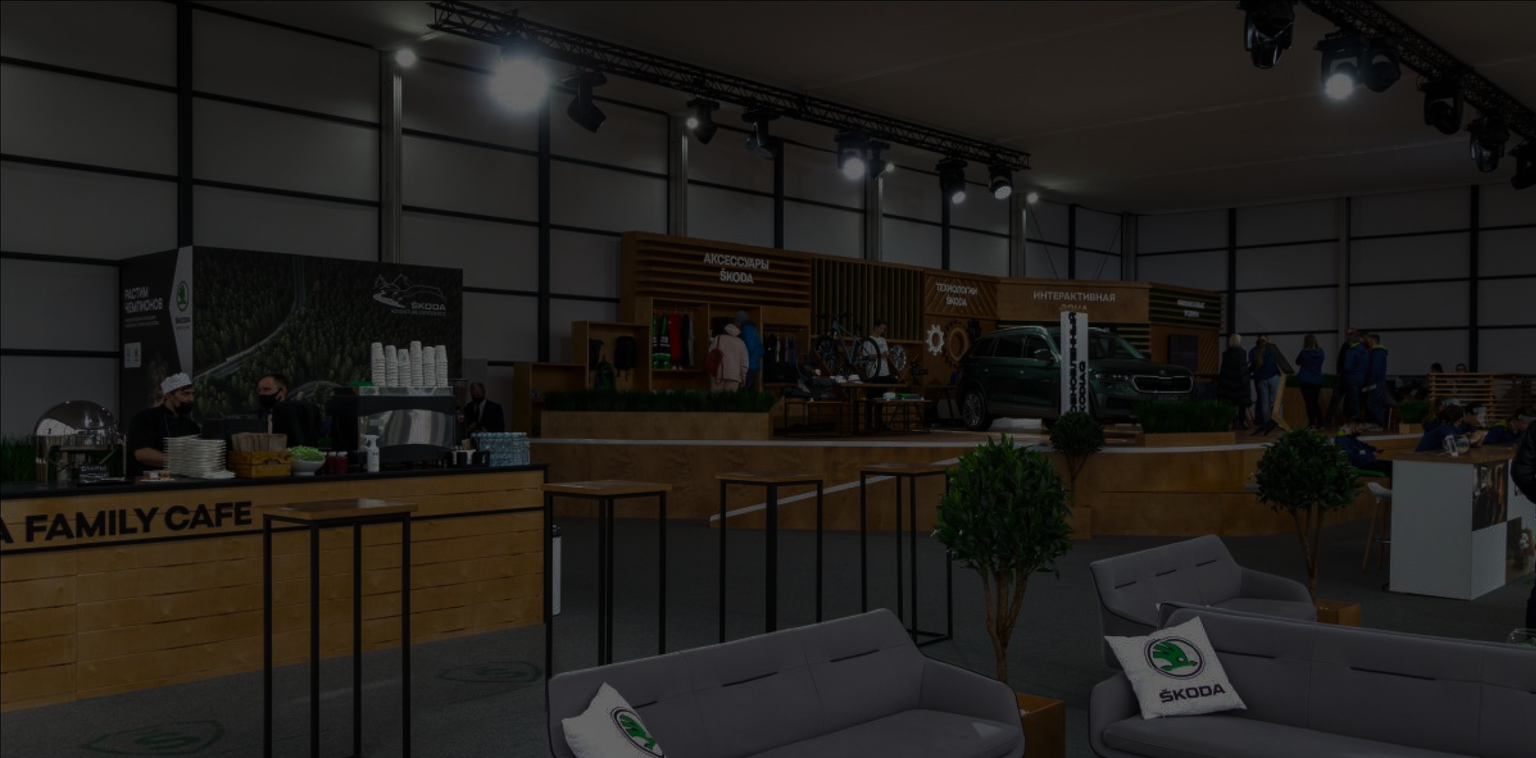
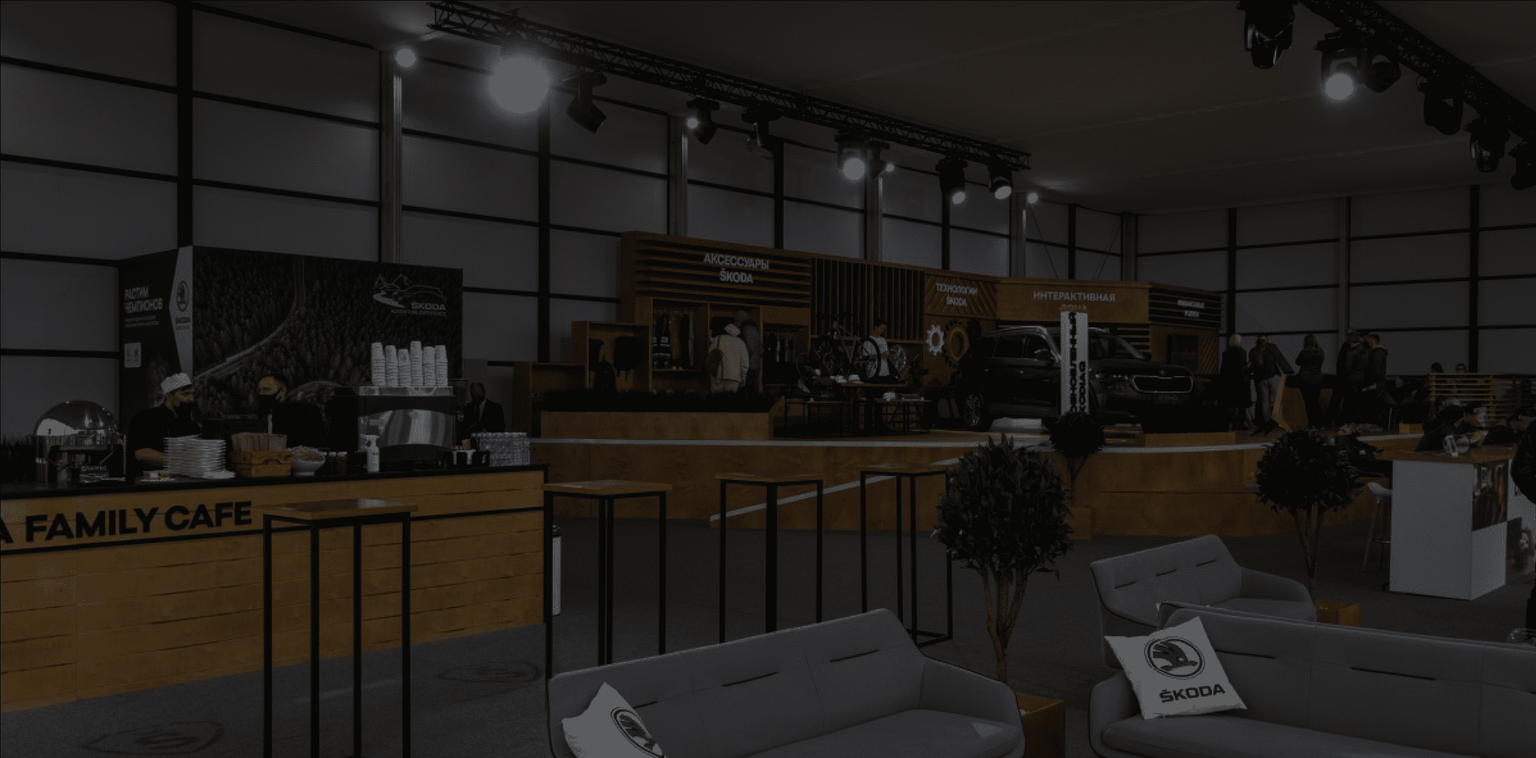
new hero bg

Changed region(s): [[0.4375, 0.432, 0.5, 0.4937], [0.75, 0.8331, 0.7812, 0.8948]]

diff --git a/addition.html b/addition.html
@@ -6,22 +6,22 @@
  <meta name="viewport" content="width=device-width, initial-scale=1.0">
  <link rel="preconnect" href="https://fonts.googleapis.com">
  <link rel="preconnect" href="https://fonts.gstatic.com" crossorigin>
- <link href="https://fonts.googleapis.com/css2?family=Raleway:wght@400;500;600;700&display=swap&_v=20230320100717" rel="stylesheet">
+ <link href="https://fonts.googleapis.com/css2?family=Raleway:wght@400;500;600;700&display=swap&_v=20230320102137" rel="stylesheet">
  <link rel="preconnect" href="https://fonts.googleapis.com">
  <link rel="preconnect" href="https://fonts.gstatic.com" crossorigin>
- <link href="https://fonts.googleapis.com/css2?family=Play:wght@400;700&display=swap&_v=20230320100717" rel="stylesheet">
+ <link href="https://fonts.googleapis.com/css2?family=Play:wght@400;700&display=swap&_v=20230320102137" rel="stylesheet">
  <link rel="preconnect" href="https://fonts.googleapis.com">
  <link rel="preconnect" href="https://fonts.gstatic.com" crossorigin>
- <link href="https://fonts.googleapis.com/css2?family=Montserrat:wght@500;600&display=swap&_v=20230320100717" rel="stylesheet">
+ <link href="https://fonts.googleapis.com/css2?family=Montserrat:wght@500;600&display=swap&_v=20230320102137" rel="stylesheet">
  <link rel="preconnect" href="https://fonts.googleapis.com">
  <link rel="preconnect" href="https://fonts.gstatic.com" crossorigin>
- <link href="https://fonts.googleapis.com/css2?family=Work+Sans:wght@700&display=swap&_v=20230320100717" rel="stylesheet">
+ <link href="https://fonts.googleapis.com/css2?family=Work+Sans:wght@700&display=swap&_v=20230320102137" rel="stylesheet">
  <link rel="preload" as="image" href="./img/main/hero.png" />
- <link rel="stylesheet" href="https://cdn.jsdelivr.net/npm/swiper@9/swiper-bundle.min.css?_v=20230320100717" />
- <script src="https://cdn.jsdelivr.net/npm/swiper@9/swiper-bundle.min.js?_v=20230320100717"></script>
- <script src="js/jQuery2.2.0.js?_v=20230320100717"></script>
- <script src="js/ScrollAnimations.js?_v=20230320100717"></script>
- <link rel="stylesheet" href="css/style.min.css?_v=20230320100717">
+ <link rel="stylesheet" href="https://cdn.jsdelivr.net/npm/swiper@9/swiper-bundle.min.css?_v=20230320102137" />
+ <script src="https://cdn.jsdelivr.net/npm/swiper@9/swiper-bundle.min.js?_v=20230320102137"></script>
+ <script src="js/jQuery2.2.0.js?_v=20230320102137"></script>
+ <script src="js/ScrollAnimations.js?_v=20230320102137"></script>
+ <link rel="stylesheet" href="css/style.min.css?_v=20230320102137">
  <title>Дополнительные возможности</title>
 </head>
 
@@ -418,8 +418,8 @@
  </div>
 </footer>
 </body>
-<script src="./js/menu.js?_v=20230320100717"></script>
-<script src="./js/slider.js?_v=20230320100717"></script>
-<script src="./js/animation.js?_v=20230320100717"></script>
+<script src="./js/menu.js?_v=20230320102137"></script>
+<script src="./js/slider.js?_v=20230320102137"></script>
+<script src="./js/animation.js?_v=20230320102137"></script>
 
 </html>

diff --git a/solutions.html b/solutions.html
@@ -6,22 +6,22 @@
  <meta name="viewport" content="width=device-width, initial-scale=1.0">
  <link rel="preconnect" href="https://fonts.googleapis.com">
  <link rel="preconnect" href="https://fonts.gstatic.com" crossorigin>
- <link href="https://fonts.googleapis.com/css2?family=Raleway:wght@400;500;600;700&display=swap&_v=20230320100717" rel="stylesheet">
+ <link href="https://fonts.googleapis.com/css2?family=Raleway:wght@400;500;600;700&display=swap&_v=20230320102137" rel="stylesheet">
  <link rel="preconnect" href="https://fonts.googleapis.com">
  <link rel="preconnect" href="https://fonts.gstatic.com" crossorigin>
- <link href="https://fonts.googleapis.com/css2?family=Play:wght@400;700&display=swap&_v=20230320100717" rel="stylesheet">
+ <link href="https://fonts.googleapis.com/css2?family=Play:wght@400;700&display=swap&_v=20230320102137" rel="stylesheet">
  <link rel="preconnect" href="https://fonts.googleapis.com">
  <link rel="preconnect" href="https://fonts.gstatic.com" crossorigin>
- <link href="https://fonts.googleapis.com/css2?family=Montserrat:wght@500;600&display=swap&_v=20230320100717" rel="stylesheet">
+ <link href="https://fonts.googleapis.com/css2?family=Montserrat:wght@500;600&display=swap&_v=20230320102137" rel="stylesheet">
  <link rel="preconnect" href="https://fonts.googleapis.com">
  <link rel="preconnect" href="https://fonts.gstatic.com" crossorigin>
- <link href="https://fonts.googleapis.com/css2?family=Work+Sans:wght@700&display=swap&_v=20230320100717" rel="stylesheet">
+ <link href="https://fonts.googleapis.com/css2?family=Work+Sans:wght@700&display=swap&_v=20230320102137" rel="stylesheet">
  <link rel="preload" as="image" href="./img/main/hero.png" />
- <link rel="stylesheet" href="https://cdn.jsdelivr.net/npm/swiper@9/swiper-bundle.min.css?_v=20230320100717" />
- <script src="https://cdn.jsdelivr.net/npm/swiper@9/swiper-bundle.min.js?_v=20230320100717"></script>
- <script src="js/jQuery2.2.0.js?_v=20230320100717"></script>
- <script src="js/ScrollAnimations.js?_v=20230320100717"></script>
- <link rel="stylesheet" href="css/style.min.css?_v=20230320100717">
+ <link rel="stylesheet" href="https://cdn.jsdelivr.net/npm/swiper@9/swiper-bundle.min.css?_v=20230320102137" />
+ <script src="https://cdn.jsdelivr.net/npm/swiper@9/swiper-bundle.min.js?_v=20230320102137"></script>
+ <script src="js/jQuery2.2.0.js?_v=20230320102137"></script>
+ <script src="js/ScrollAnimations.js?_v=20230320102137"></script>
+ <link rel="stylesheet" href="css/style.min.css?_v=20230320102137">
  <title>Решения</title>
 </head>
 
@@ -375,8 +375,8 @@
  </div>
 </footer>
 </body>
-<script src="./js/slider.js?_v=20230320100717"></script>
-<script src="./js/menu.js?_v=20230320100717"></script>
-<script src="./js/animation.js?_v=20230320100717"></script>
+<script src="./js/slider.js?_v=20230320102137"></script>
+<script src="./js/menu.js?_v=20230320102137"></script>
+<script src="./js/animation.js?_v=20230320102137"></script>
 
 </html>

diff --git a/index.html b/index.html
@@ -6,22 +6,22 @@
  <meta name="viewport" content="width=device-width, initial-scale=1.0">
  <link rel="preconnect" href="https://fonts.googleapis.com">
  <link rel="preconnect" href="https://fonts.gstatic.com" crossorigin>
- <link href="https://fonts.googleapis.com/css2?family=Raleway:wght@400;500;600;700&display=swap&_v=20230320100717" rel="stylesheet">
+ <link href="https://fonts.googleapis.com/css2?family=Raleway:wght@400;500;600;700&display=swap&_v=20230320102137" rel="stylesheet">
  <link rel="preconnect" href="https://fonts.googleapis.com">
  <link rel="preconnect" href="https://fonts.gstatic.com" crossorigin>
- <link href="https://fonts.googleapis.com/css2?family=Play:wght@400;700&display=swap&_v=20230320100717" rel="stylesheet">
+ <link href="https://fonts.googleapis.com/css2?family=Play:wght@400;700&display=swap&_v=20230320102137" rel="stylesheet">
  <link rel="preconnect" href="https://fonts.googleapis.com">
  <link rel="preconnect" href="https://fonts.gstatic.com" crossorigin>
- <link href="https://fonts.googleapis.com/css2?family=Montserrat:wght@500;600&display=swap&_v=20230320100717" rel="stylesheet">
+ <link href="https://fonts.googleapis.com/css2?family=Montserrat:wght@500;600&display=swap&_v=20230320102137" rel="stylesheet">
  <link rel="preconnect" href="https://fonts.googleapis.com">
  <link rel="preconnect" href="https://fonts.gstatic.com" crossorigin>
- <link href="https://fonts.googleapis.com/css2?family=Work+Sans:wght@700&display=swap&_v=20230320100717" rel="stylesheet">
+ <link href="https://fonts.googleapis.com/css2?family=Work+Sans:wght@700&display=swap&_v=20230320102137" rel="stylesheet">
  <link rel="preload" as="image" href="./img/main/hero.png" />
- <link rel="stylesheet" href="https://cdn.jsdelivr.net/npm/swiper@9/swiper-bundle.min.css?_v=20230320100717" />
- <script src="https://cdn.jsdelivr.net/npm/swiper@9/swiper-bundle.min.js?_v=20230320100717"></script>
- <script src="js/jQuery2.2.0.js?_v=20230320100717"></script>
- <script src="js/ScrollAnimations.js?_v=20230320100717"></script>
- <link rel="stylesheet" href="css/style.min.css?_v=20230320100717">
+ <link rel="stylesheet" href="https://cdn.jsdelivr.net/npm/swiper@9/swiper-bundle.min.css?_v=20230320102137" />
+ <script src="https://cdn.jsdelivr.net/npm/swiper@9/swiper-bundle.min.js?_v=20230320102137"></script>
+ <script src="js/jQuery2.2.0.js?_v=20230320102137"></script>
+ <script src="js/ScrollAnimations.js?_v=20230320102137"></script>
+ <link rel="stylesheet" href="css/style.min.css?_v=20230320102137">
  <title>Главная</title>
 </head>
 
@@ -713,7 +713,7 @@
  </div>
 </footer>
 </body>
-<script src="./js/menu.js?_v=20230320100717"></script>
-<script src="./js/slider.js?_v=20230320100717"></script>
-<script src="./js/animation.js?_v=20230320100717"></script>
+<script src="./js/menu.js?_v=20230320102137"></script>
+<script src="./js/slider.js?_v=20230320102137"></script>
+<script src="./js/animation.js?_v=20230320102137"></script>
 </html>

diff --git a/designs-classic.html b/designs-classic.html
@@ -6,20 +6,20 @@
  <meta name="viewport" content="width=device-width, initial-scale=1.0">
  <link rel="preconnect" href="https://fonts.googleapis.com">
  <link rel="preconnect" href="https://fonts.gstatic.com" crossorigin>
- <link href="https://fonts.googleapis.com/css2?family=Raleway:wght@400;500;600;700&display=swap&_v=20230320100717" rel="stylesheet">
+ <link href="https://fonts.googleapis.com/css2?family=Raleway:wght@400;500;600;700&display=swap&_v=20230320102137" rel="stylesheet">
  <link rel="preconnect" href="https://fonts.googleapis.com">
  <link rel="preconnect" href="https://fonts.gstatic.com" crossorigin>
- <link href="https://fonts.googleapis.com/css2?family=Play:wght@400;700&display=swap&_v=20230320100717" rel="stylesheet">
+ <link href="https://fonts.googleapis.com/css2?family=Play:wght@400;700&display=swap&_v=20230320102137" rel="stylesheet">
  <link rel="preconnect" href="https://fonts.googleapis.com">
  <link rel="preconnect" href="https://fonts.gstatic.com" crossorigin>
- <link href="https://fonts.googleapis.com/css2?family=Montserrat:wght@500;600&display=swap&_v=20230320100717" rel="stylesheet">
+ <link href="https://fonts.googleapis.com/css2?family=Montserrat:wght@500;600&display=swap&_v=20230320102137" rel="stylesheet">
  <link rel="preconnect" href="https://fonts.googleapis.com">
  <link rel="preconnect" href="https://fonts.gstatic.com" crossorigin>
- <link href="https://fonts.googleapis.com/css2?family=Work+Sans:wght@700&display=swap&_v=20230320100717" rel="stylesheet">
- <script src="https://cdn.jsdelivr.net/npm/swiper@9/swiper-bundle.min.js?_v=20230320100717"></script>
- <script src="js/jQuery2.2.0.js?_v=20230320100717"></script>
- <script src="js/ScrollAnimations.js?_v=20230320100717"></script>
- <link rel="stylesheet" href="css/style.min.css?_v=20230320100717">
+ <link href="https://fonts.googleapis.com/css2?family=Work+Sans:wght@700&display=swap&_v=20230320102137" rel="stylesheet">
+ <script src="https://cdn.jsdelivr.net/npm/swiper@9/swiper-bundle.min.js?_v=20230320102137"></script>
+ <script src="js/jQuery2.2.0.js?_v=20230320102137"></script>
+ <script src="js/ScrollAnimations.js?_v=20230320102137"></script>
+ <link rel="stylesheet" href="css/style.min.css?_v=20230320102137">
  <title>Классические конструкции</title>
 </head>
 
@@ -324,8 +324,8 @@
  </div>
 </footer>
 </body>
-<script src="./js/slider.js?_v=20230320100717"></script>
-<script src="./js/menu.js?_v=20230320100717"></script>
-<script src="./js/animation.js?_v=20230320100717"></script>
+<script src="./js/slider.js?_v=20230320102137"></script>
+<script src="./js/menu.js?_v=20230320102137"></script>
+<script src="./js/animation.js?_v=20230320102137"></script>
 
 </html>

diff --git a/designs-premium.html b/designs-premium.html
@@ -6,20 +6,20 @@
  <meta name="viewport" content="width=device-width, initial-scale=1.0">
  <link rel="preconnect" href="https://fonts.googleapis.com">
  <link rel="preconnect" href="https://fonts.gstatic.com" crossorigin>
- <link href="https://fonts.googleapis.com/css2?family=Raleway:wght@400;500;600;700&display=swap&_v=20230320100717" rel="stylesheet">
+ <link href="https://fonts.googleapis.com/css2?family=Raleway:wght@400;500;600;700&display=swap&_v=20230320102137" rel="stylesheet">
  <link rel="preconnect" href="https://fonts.googleapis.com">
  <link rel="preconnect" href="https://fonts.gstatic.com" crossorigin>
- <link href="https://fonts.googleapis.com/css2?family=Play:wght@400;700&display=swap&_v=20230320100717" rel="stylesheet">
+ <link href="https://fonts.googleapis.com/css2?family=Play:wght@400;700&display=swap&_v=20230320102137" rel="stylesheet">
  <link rel="preconnect" href="https://fonts.googleapis.com">
  <link rel="preconnect" href="https://fonts.gstatic.com" crossorigin>
- <link href="https://fonts.googleapis.com/css2?family=Montserrat:wght@500;600&display=swap&_v=20230320100717" rel="stylesheet">
+ <link href="https://fonts.googleapis.com/css2?family=Montserrat:wght@500;600&display=swap&_v=20230320102137" rel="stylesheet">
  <link rel="preconnect" href="https://fonts.googleapis.com">
  <link rel="preconnect" href="https://fonts.gstatic.com" crossorigin>
- <link href="https://fonts.googleapis.com/css2?family=Work+Sans:wght@700&display=swap&_v=20230320100717" rel="stylesheet">
- <script src="https://cdn.jsdelivr.net/npm/swiper@9/swiper-bundle.min.js?_v=20230320100717"></script>
- <script src="js/jQuery2.2.0.js?_v=20230320100717"></script>
- <script src="js/ScrollAnimations.js?_v=20230320100717"></script>
- <link rel="stylesheet" href="css/style.min.css?_v=20230320100717">
+ <link href="https://fonts.googleapis.com/css2?family=Work+Sans:wght@700&display=swap&_v=20230320102137" rel="stylesheet">
+ <script src="https://cdn.jsdelivr.net/npm/swiper@9/swiper-bundle.min.js?_v=20230320102137"></script>
+ <script src="js/jQuery2.2.0.js?_v=20230320102137"></script>
+ <script src="js/ScrollAnimations.js?_v=20230320102137"></script>
+ <link rel="stylesheet" href="css/style.min.css?_v=20230320102137">
  <title>Премиальные конструкции</title>
 </head>
 
@@ -312,7 +312,7 @@
  </div>
 </footer>
 </body>
- <script src="./js/slider.js?_v=20230320100717"></script>
- <script src="./js/menu.js?_v=20230320100717"></script>
-<script src="./js/animation.js?_v=20230320100717"></script>
+ <script src="./js/slider.js?_v=20230320102137"></script>
+ <script src="./js/menu.js?_v=20230320102137"></script>
+<script src="./js/animation.js?_v=20230320102137"></script>
 </html>

diff --git a/designs.html b/designs.html
@@ -6,20 +6,20 @@
  <meta name="viewport" content="width=device-width, initial-scale=1.0">
  <link rel="preconnect" href="https://fonts.googleapis.com">
  <link rel="preconnect" href="https://fonts.gstatic.com" crossorigin>
- <link href="https://fonts.googleapis.com/css2?family=Raleway:wght@400;500;600;700&display=swap&_v=20230320100717" rel="stylesheet">
+ <link href="https://fonts.googleapis.com/css2?family=Raleway:wght@400;500;600;700&display=swap&_v=20230320102137" rel="stylesheet">
  <link rel="preconnect" href="https://fonts.googleapis.com">
  <link rel="preconnect" href="https://fonts.gstatic.com" crossorigin>
- <link href="https://fonts.googleapis.com/css2?family=Play:wght@400;700&display=swap&_v=20230320100717" rel="stylesheet">
+ <link href="https://fonts.googleapis.com/css2?family=Play:wght@400;700&display=swap&_v=20230320102137" rel="stylesheet">
  <link rel="preconnect" href="https://fonts.googleapis.com">
  <link rel="preconnect" href="https://fonts.gstatic.com" crossorigin>
- <link href="https://fonts.googleapis.com/css2?family=Montserrat:wght@500;600&display=swap&_v=20230320100717" rel="stylesheet">
+ <link href="https://fonts.googleapis.com/css2?family=Montserrat:wght@500;600&display=swap&_v=20230320102137" rel="stylesheet">
  <link rel="preconnect" href="https://fonts.googleapis.com">
  <link rel="preconnect" href="https://fonts.gstatic.com" crossorigin>
- <link href="https://fonts.googleapis.com/css2?family=Work+Sans:wght@700&display=swap&_v=20230320100717" rel="stylesheet">
- <script src="https://cdn.jsdelivr.net/npm/swiper@9/swiper-bundle.min.js?_v=20230320100717"></script>
- <script src="js/jQuery2.2.0.js?_v=20230320100717"></script>
- <script src="js/ScrollAnimations.js?_v=20230320100717"></script>
- <link rel="stylesheet" href="css/style.min.css?_v=20230320100717">
+ <link href="https://fonts.googleapis.com/css2?family=Work+Sans:wght@700&display=swap&_v=20230320102137" rel="stylesheet">
+ <script src="https://cdn.jsdelivr.net/npm/swiper@9/swiper-bundle.min.js?_v=20230320102137"></script>
+ <script src="js/jQuery2.2.0.js?_v=20230320102137"></script>
+ <script src="js/ScrollAnimations.js?_v=20230320102137"></script>
+ <link rel="stylesheet" href="css/style.min.css?_v=20230320102137">
  <title>Конструкции</title>
 </head>
 
@@ -280,7 +280,7 @@
 </footer>
 </body>
 
-<script src="./js/menu.js?_v=20230320100717"></script>
-<script src="./js/animation.js?_v=20230320100717"></script>
+<script src="./js/menu.js?_v=20230320102137"></script>
+<script src="./js/animation.js?_v=20230320102137"></script>
 
 </html>
